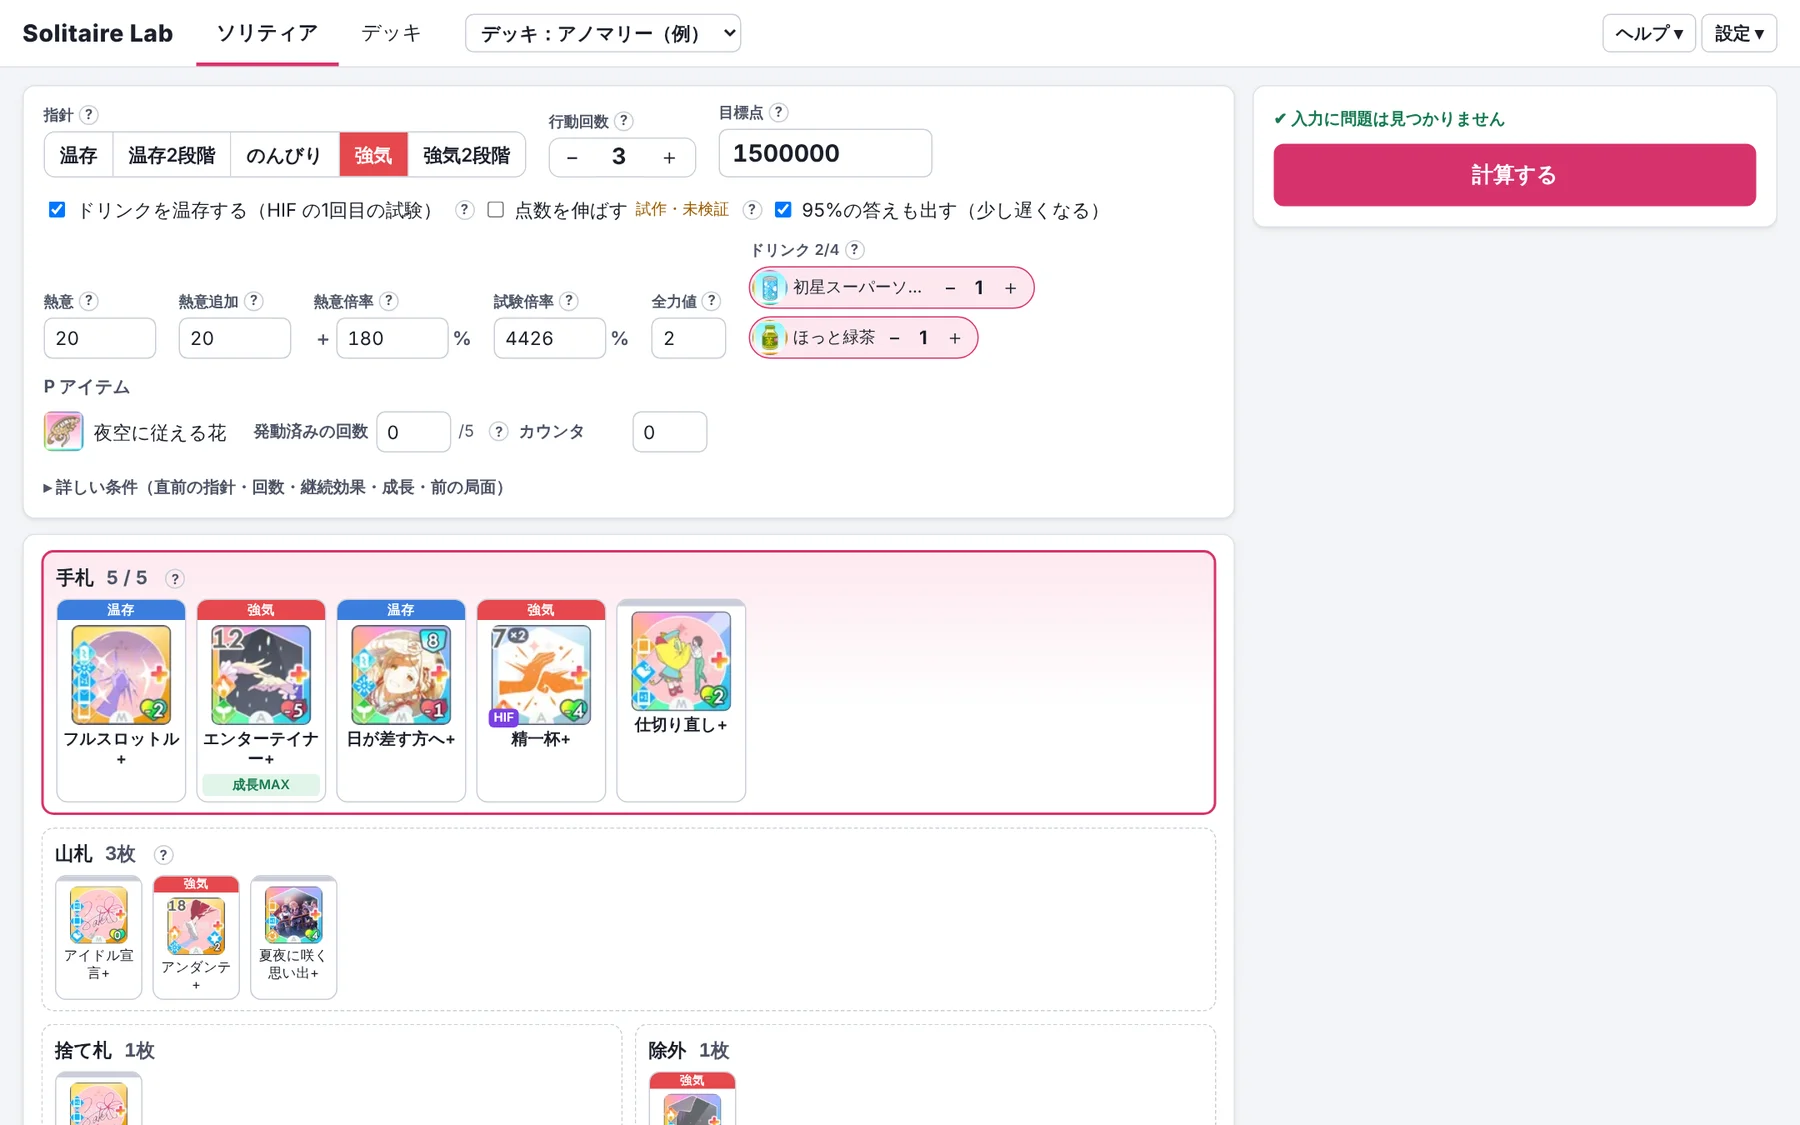
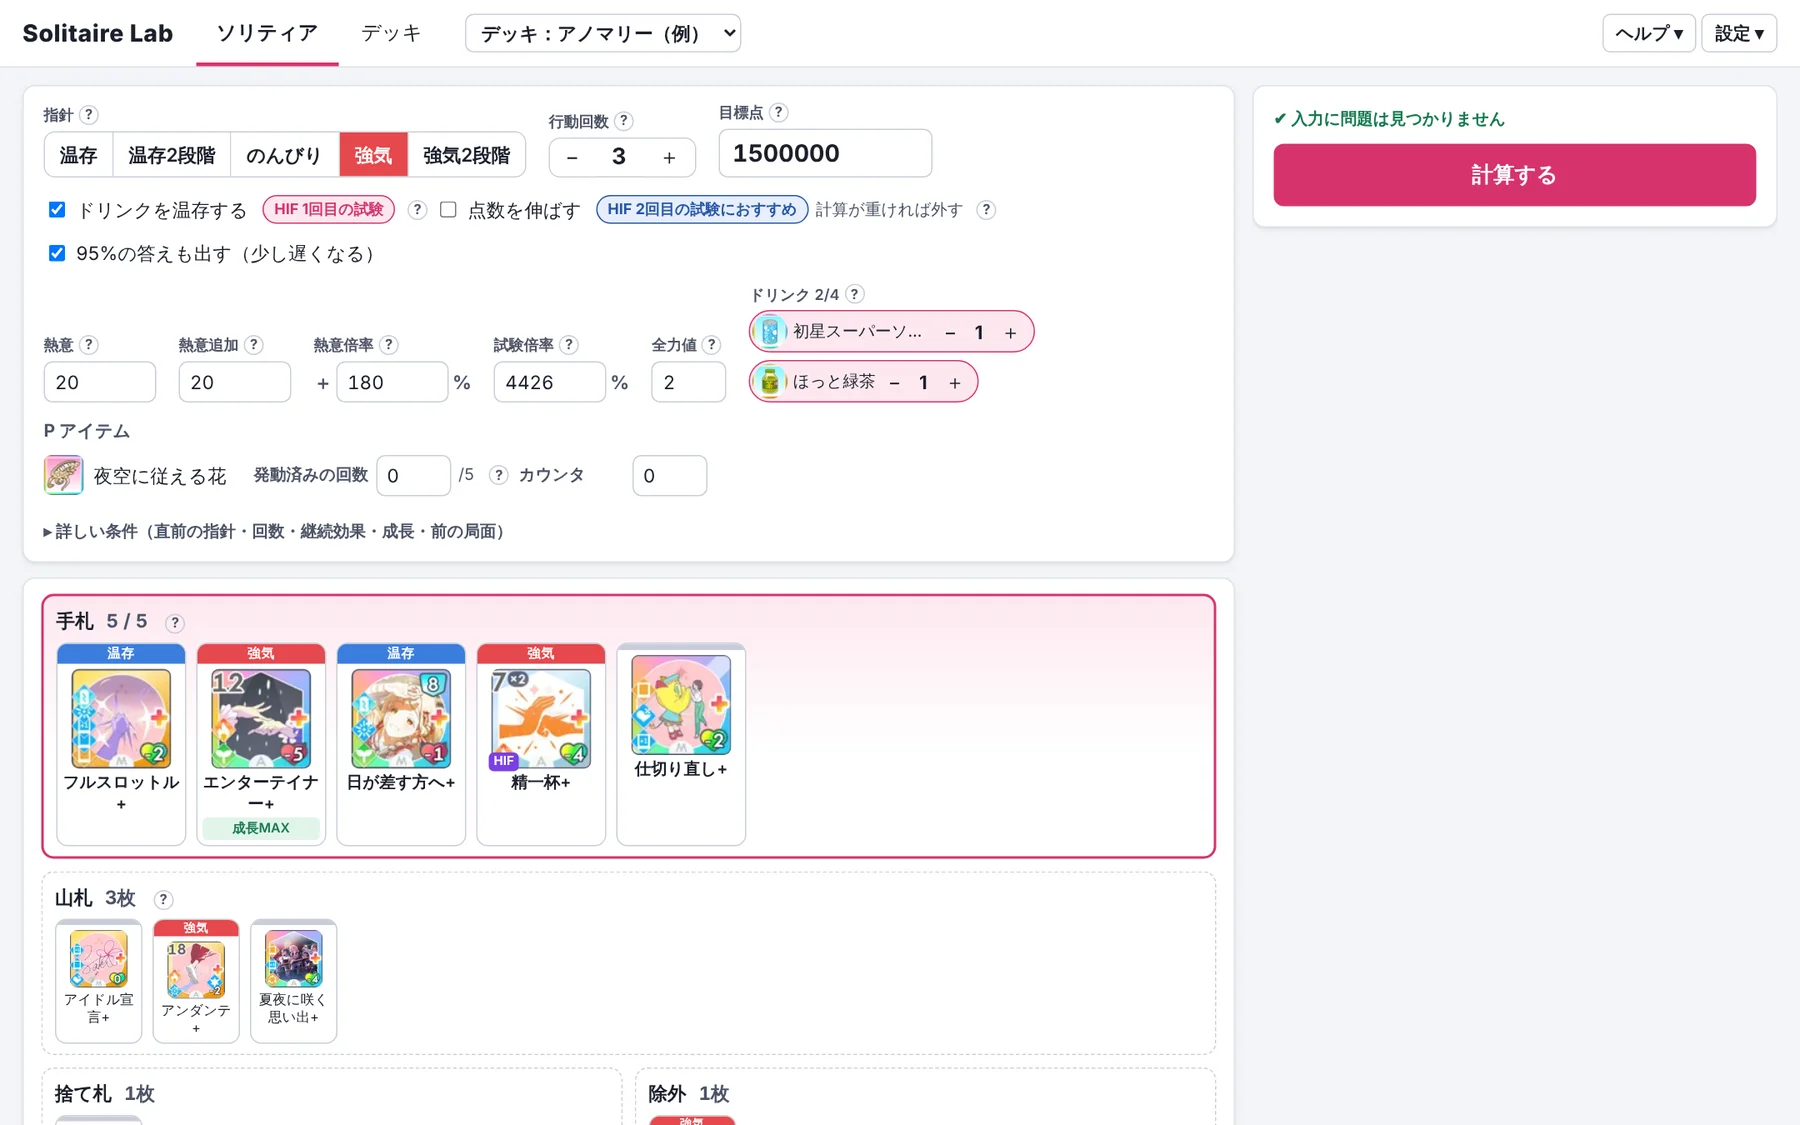
Solitaire Lab 1.14.6

Changed region(s): [[0.0, 0.1556, 0.6844, 1.0], [0.3422, 0.9022, 0.4356, 1.0]]

diff --git a/js/turn.js b/js/turn.js
@@ -100,11 +100,11 @@ export function renderTurn(root, rerender) {
       stepper('行動回数', 'cardUses', {min: 1, max: 20, tip: 'このターンに、まだ札を使える回数（ゲームの画面のスキルカード使用数）'}),
       field('目標点', 'target', {width: 9, cls: 'big', tip: 'このターンで届かせたい点数。プレイの途中から作った局面では、それまでに入った点を引いた値'})),
     // ドリンクを温存する（HIF の1回目の試験）。既定は温存しない（届く確率 → 手数）。1.11.0、利用者の決定
-    h('div.lastexam', {}, h('label.f', {}, h('input', {type: 'checkbox', checked: !!p.saveDrinks && !p.beyondGoal, onchange: e => { p.saveDrinks = e.target.checked; if (e.target.checked) p.beyondGoal = false; touch(); }}), 'ドリンクを温存する（HIF の1回目の試験）'),
+    h('div.lastexam', {}, h('label.f', {}, h('input', {type: 'checkbox', checked: !!p.saveDrinks && !p.beyondGoal, onchange: e => { p.saveDrinks = e.target.checked; if (e.target.checked) p.beyondGoal = false; touch(); }}), 'ドリンクを温存する', h('span.hiftag', 'HIF 1回目の試験')),
       qtip('HIF（試験が2回続くシナリオ）の1回目で、2回目のためにドリンクを残したいときに入れます。入れると、届く確率 → ドリンク → 手数 の順で比べ、ドリンクを少なく使う手を選びます。ほかのシナリオ・HIF の2回目では入れなくてかまいません（ドリンクは比べず、届く確率 → 手数 の順）'),
-      // 点数を伸ばす（試作・未検証、1.12.0、利用者の決定）：目標点に届いた後も、点の平均が高い手を選ぶ。温存とは同時に使わない
-      h('label.f.beyond', {}, h('input', {type: 'checkbox', checked: !!p.beyondGoal, onchange: e => { p.beyondGoal = e.target.checked; if (e.target.checked) p.saveDrinks = false; touch(); }}), '点数を伸ばす'), h('small.unsup', '試作・未検証'),
-      qtip('入れると、届く確率を一番に、同じなら目標点に届いた先も含めた点の平均（期待最終点）が高い手を選びます。目標点に届いた後も手を続けます。ドリンク・手数は比べません。続きからの計算・途中からの即答・95%の答えはありません'),
+      // 点数を伸ばす（1.12.0、利用者の決定。1.14.6 で試作・未検証の印を外した＝利用者の決定）：目標点に届いた後も、点の平均が高い手を選ぶ。温存とは同時に使わない
+      h('label.f.beyond', {}, h('input', {type: 'checkbox', checked: !!p.beyondGoal, onchange: e => { p.beyondGoal = e.target.checked; if (e.target.checked) p.saveDrinks = false; touch(); }}), '点数を伸ばす', h('span.hiftag.t2', 'HIF 2回目の試験におすすめ')), h('small.hint', '計算が重ければ外す'),
+      qtip('HIF の2回目の試験におすすめです。計算が重い（時間がかかる・答えが出にくい）ときは外してください。入れると、届く確率を一番に、同じなら目標点に届いた先も含めた点の平均（期待最終点）が高い手を選びます。目標点に届いた後も手を続けます。ドリンク・手数は比べません。続きからの計算・途中からの即答・95%の答えはありません'),
       p.saveDrinks && !p.beyondGoal && h('label.f.both', {}, h('input', {type: 'checkbox', checked: S.settings.both !== false, onchange: e => { S.settings.both = e.target.checked; touch(); }}), '95%の答えも出す（少し遅くなる）')),
     h('div.hudrow', {},
       field('熱意', 'enthusiasm', {tip: 'ゲームの画面の、今の熱意の値'}), field('熱意追加', 'enthusiasmBonus', {tip: 'ゲームの画面の、熱意追加の値'}),

diff --git a/manual/index.html b/manual/index.html
@@ -51,7 +51,7 @@
 <section class="slide cover">
   <h1>Solitaire Lab 詳細マニュアル</h1>
   <div class="sub">学園アイドルマスターの「ソリティア」で、<br>どの順番で札を使えば目標点に届きやすいかを教えてくれるツールです。</div>
-  <div class="ver">版 1.14.5 ・ ← → キー、または画面の左右を押してページをめくります</div>
+  <div class="ver">版 1.14.6 ・ ← → キー、または画面の左右を押してページをめくります</div>
 </section>
 
 <section class="slide">
@@ -67,7 +67,7 @@
     <li><a href="#10">その他の条件を入力する</a></li>
     <li><a href="#11">詳しい条件を入力する</a></li>
     <li><a href="#12">ドリンクを温存する（HIF の1回目の試験）</a></li>
-    <li><a href="#13">点数を伸ばす（試作・未検証）</a></li>
+    <li><a href="#13">点数を伸ばす</a></li>
     <li><a href="#14">計算する</a></li>
     <li><a href="#15">結果を見る</a></li>
     <li><a href="#16">結果をくわしく見る</a></li>
@@ -202,11 +202,11 @@
 </section>
 
 <section class="slide">
-  <h2><span class="no">11</span>点数を伸ばす（試作・未検証）</h2>
+  <h2><span class="no">11</span>点数を伸ばす</h2>
   <div class="body"><div class="txt">
     <ul>
       <li>ふだんの計算は、目標点に届けば、その先の点は追いません。</li>
-      <li>目標点に届いた後も点を伸ばしたいときは、目標点の下の「<b>点数を伸ばす</b>」にチェックを入れます。届く確率を一番に、同じなら<b>期待最終点</b>（届いた先も含めた最終点の平均）が高い手を選びます。</li>
+      <li>目標点に届いた後も点を伸ばしたいとき（<b>HIF の2回目の試験におすすめ</b>。計算が重ければ外す）は、目標点の下の「<b>点数を伸ばす</b>」にチェックを入れます。届く確率を一番に、同じなら<b>期待最終点</b>（届いた先も含めた最終点の平均）が高い手を選びます。</li>
       <li>答えには、達成率・<b>届いたときの平均点</b>（目標点に届いた場合の最終点の平均）・<b>最低最終点</b>（一番悪い引きのときの最終点）が出ます。ドリンク・手数は表示だけで、比べません。</li>
       <li>「ドリンクを温存する」とは同時に使えません。続きからの計算・途中からの即答・95%の答え・比較表はありません。</li>
     </ul>

diff --git a/manual/summary.html b/manual/summary.html
@@ -52,7 +52,7 @@
 <section class="slide cover">
   <h1>Solitaire Lab</h1>
   <div class="sub">学園アイドルマスターの「ソリティア」で、<br>どの順番で札を使えば目標点に届きやすいかを教えてくれるツールです。</div>
-  <div class="ver">概要 ・ 版 1.14.5 ・ くわしい使い方は「詳細マニュアル」をご覧ください</div>
+  <div class="ver">概要 ・ 版 1.14.6 ・ くわしい使い方は「詳細マニュアル」をご覧ください</div>
 </section>
 
 <section class="slide">
@@ -61,7 +61,7 @@
     <ul>
       <li>ゲームの画面と同じように手札や山札を入れると、<b>次に使う札</b>を教えてくれます。</li>
       <li>目標点に届く確率と、使うドリンクの本数の目安も表示します。HIF の1回目の試験では「ドリンクを温存する」にチェックを入れると、ドリンクを残す手順を出します。</li>
-      <li>目標点に届いた後も点を伸ばしたいときは「点数を伸ばす」（試作・未検証）にチェックを入れます。</li>
+      <li>目標点に届いた後も点を伸ばしたいときは「点数を伸ばす」にチェックを入れます。</li>
       <li>札を使ったあとは、引いた札を選ぶだけで、続けて次の手を案内します。</li>
       <li>すべての手順を一覧表で確認することもできます。</li>
       <li>インストールは不要です。ブラウザで開くだけで使え、データはお使いのブラウザの中だけで扱います。</li>

diff --git a/js/answer.js b/js/answer.js
@@ -15,7 +15,7 @@ const num1 = x => x === null || x === undefined ? '—' : (Math.round(x * 10) / 
 const num3 = x => x === null || x === undefined ? '—' : (Math.round(x * 1000) / 1000).toLocaleString('ja-JP');
 const secText = ms => ms < 1000 ? '1秒未満' : ms < 10000 ? (ms / 1000).toFixed(1) + '秒' : Math.round(ms / 1000) + '秒';
 // 見出しの比べる順：温存しない（d なし）は「届く確率 → 手数」。温存するときは、達成率最大なら届く確率を先に、95% なら「95%以上で」
-const headOrder = R => R.objective === 'beyondGoal' ? '点数を伸ばす（届く確率 → 期待最終点・試作）・' : !R.order ? '' : !R.order.includes('d') ? ordWords(R.order) + '・'
+const headOrder = R => R.objective === 'beyondGoal' ? '点数を伸ばす（届く確率 → 期待最終点）・' : !R.order ? '' : !R.order.includes('d') ? ordWords(R.order) + '・'
   : 'ドリンクを温存（' + (R.criterion === 'max' ? '届く確率 → ' : `達成率 ${R.criterion}% 以上で `) + ordWords(R.order.replace('p', '')) + '）・';
 const ordWords = o => o.split('').map(c => ({d: 'ドリンク', p: '届く確率', a: '手数'})[c]).join(' → ');
 // 0 より大きいのに 0.01% 未満の確率は、0% と読めないように有効数字2桁で出す（例 0.0031%）

diff --git a/style.css b/style.css
@@ -326,3 +326,5 @@ dialog.restore .row { gap: 8px; justify-content: flex-end; }
 .tipbox { position: fixed; z-index: 1000; max-width: 340px; background: var(--ink); color: var(--panel); font-size: 13px; line-height: 1.5; padding: 6px 10px; border-radius: 8px; box-shadow: var(--shadow); pointer-events: none; white-space: pre-wrap; }
 .gainline { margin: 4px 0 8px; font-size: 15px; } .gainline b { color: var(--acc); margin-right: 6px; } .gainline span { color: var(--sub); font-size: 13px; }
 .steptbl tr.future td { opacity: .55; }
+.hiftag { display: inline-block; margin-left: 6px; padding: 1px 8px; border-radius: 999px; font-size: 12px; font-weight: 700; background: var(--acc2); color: var(--acc); border: 1px solid var(--acc); vertical-align: 1px; }
+.hiftag.t2 { background: var(--infobg); color: var(--info); border-color: var(--info); }
